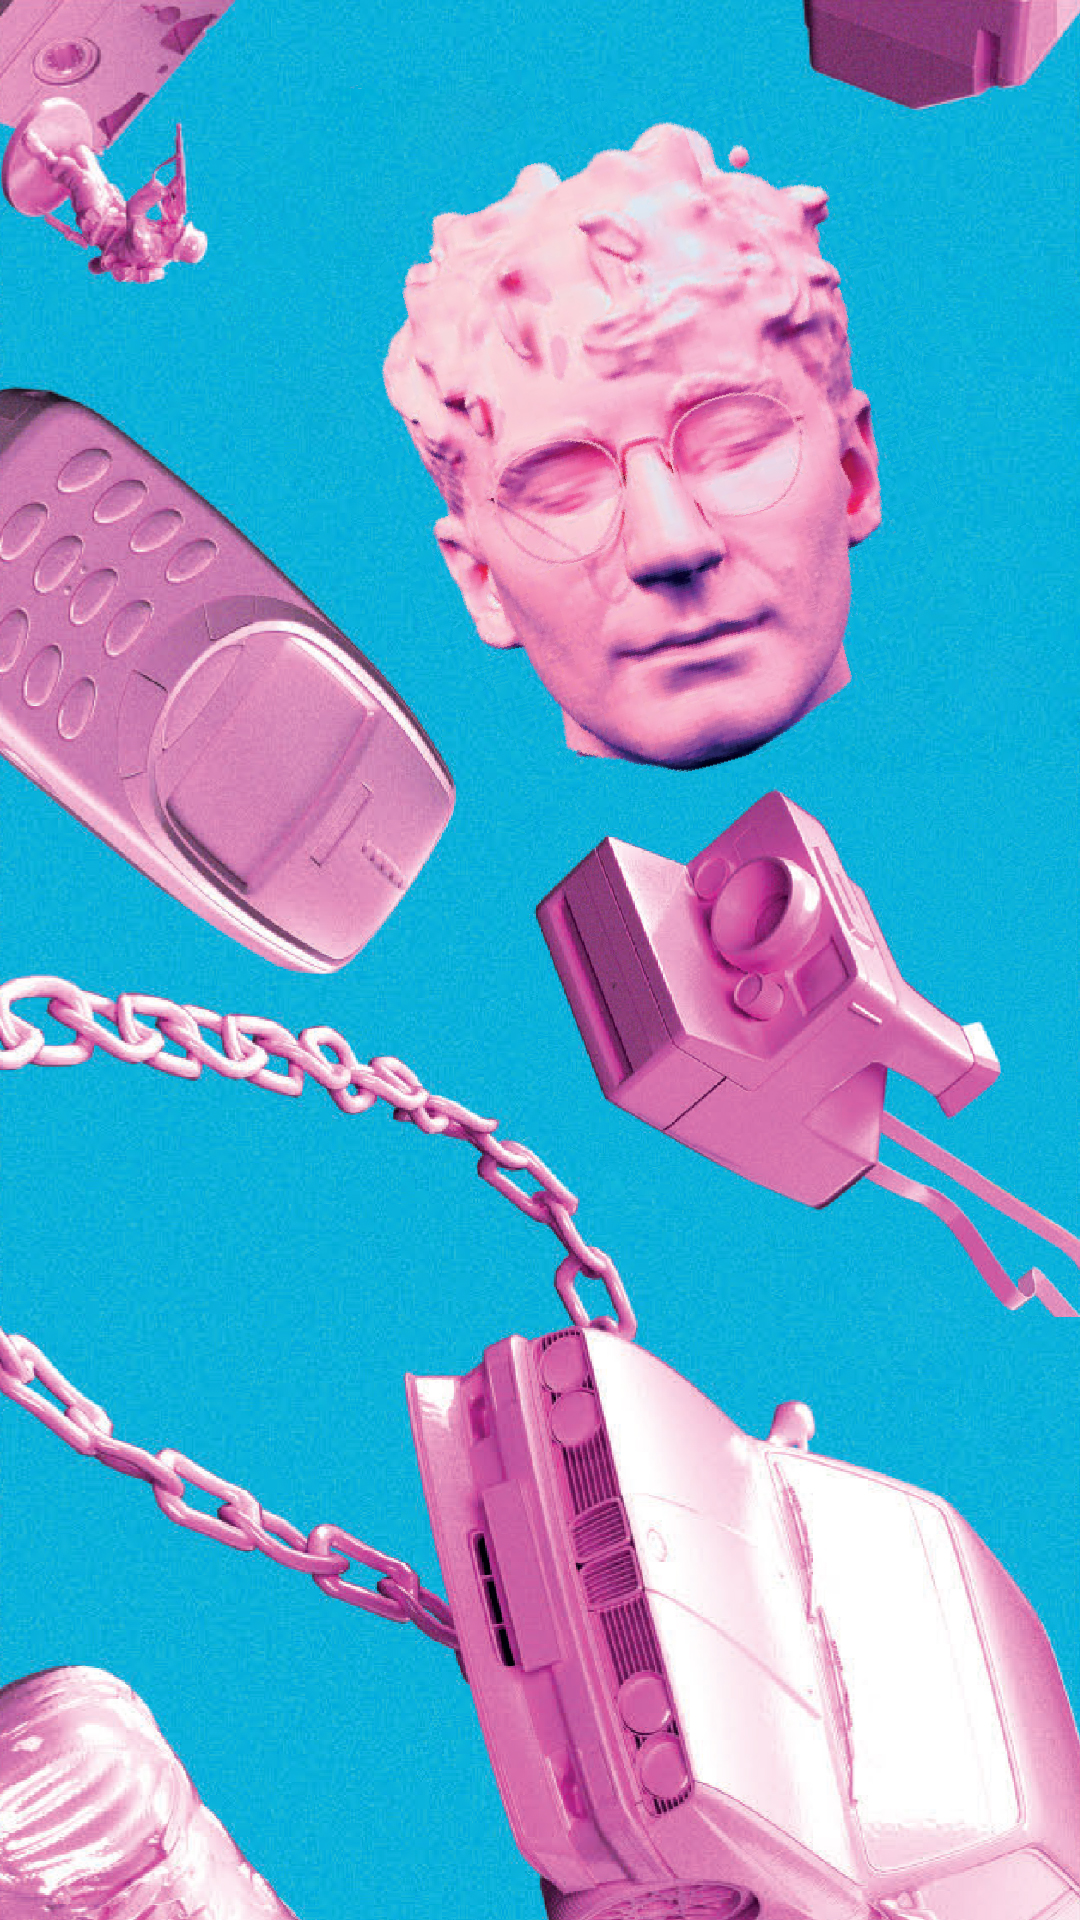
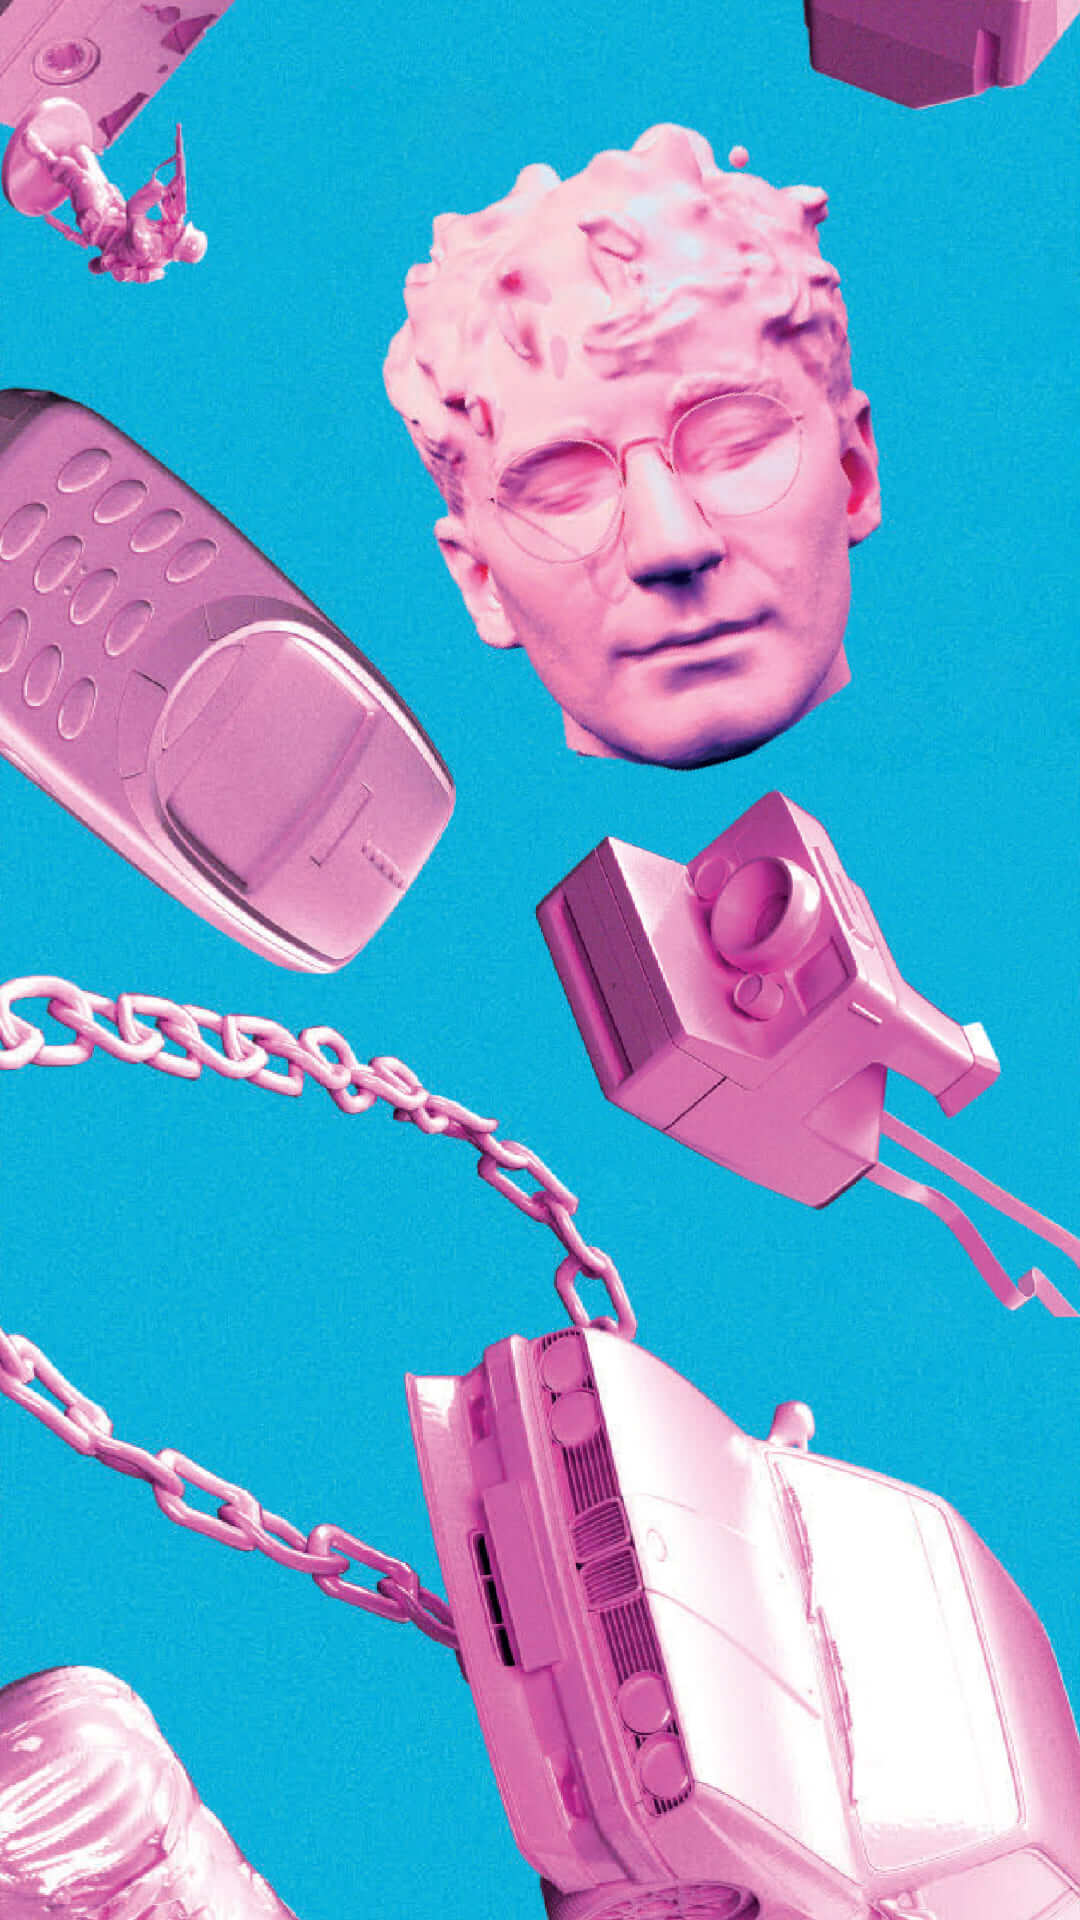
mejorar imgs

Changed region(s): [[0.3056, 0.8125, 0.3972, 0.8438], [0.2444, 0.7812, 0.275, 0.8125], [0.2444, 0.5312, 0.275, 0.5625]]

diff --git a/src/css/styles.scss b/src/css/styles.scss
@@ -9,7 +9,7 @@ html {
 }
 
 body {
-  background: url(../img/background.jpg) no-repeat center center fixed;
+  background: url(../img/background.jpeg) no-repeat center center fixed;
   animation: fluid 30s linear infinite;
   margin: 0;
 
